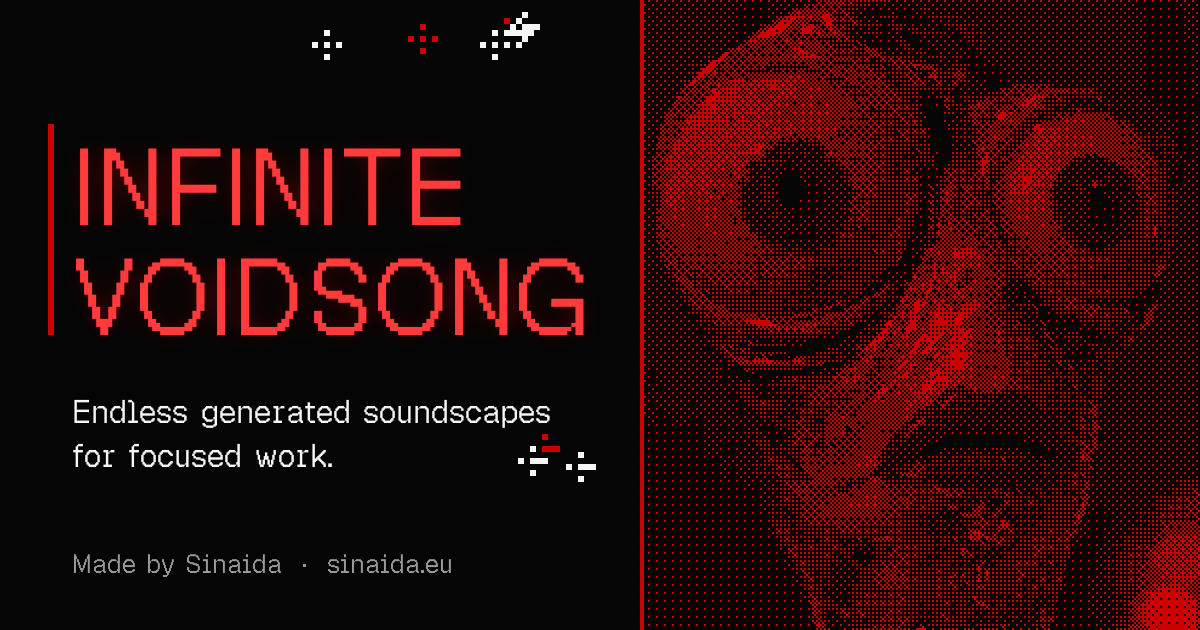
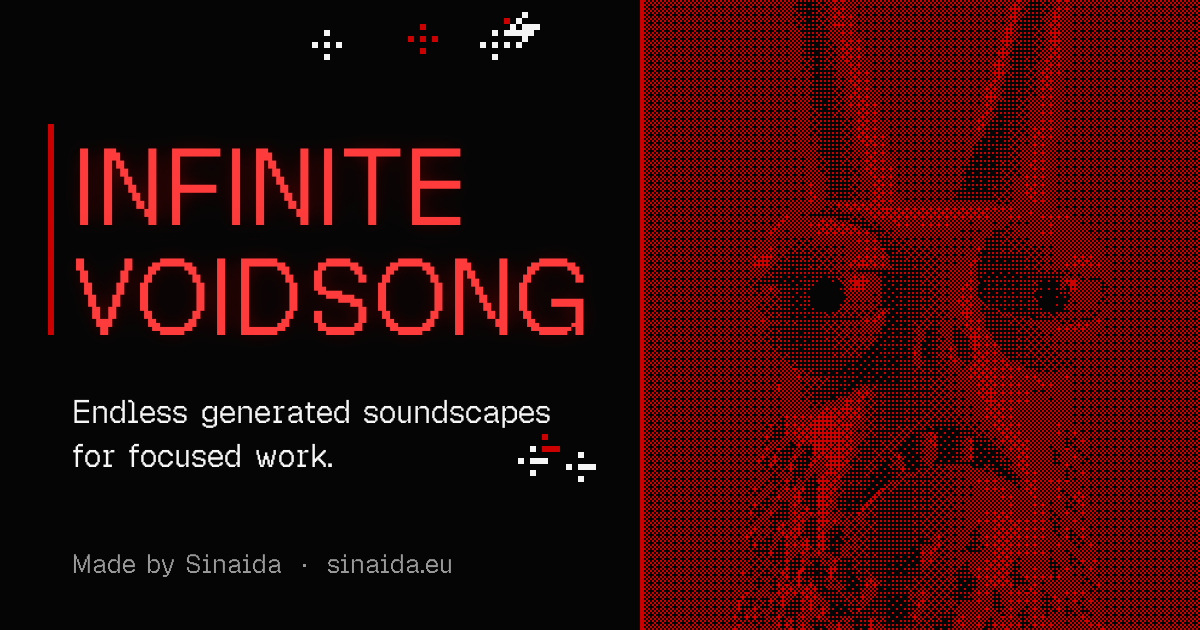
feat: link preview with the horned slopter

Changed region(s): [[0.5242, 0.0, 1.0, 1.0]]

diff --git a/scripts/generate-og.py b/scripts/generate-og.py
@@ -11,7 +11,7 @@ from PIL import Image, ImageDraw, ImageFilter, ImageFont
 
 ROOT = Path(__file__).resolve().parent.parent
 FONT_TTF = ROOT / "scripts" / "fonts" / "GeistPixel-Regular.ttf"   # Geist Pixel, SIL Open Font License
-SOURCE = ROOT / "404_images" / "slopter_6.png"
+SOURCE = ROOT / "404_images" / "slopter_44.png"
 OUT = ROOT / "public" / "og.png"
 
 VOID = (5, 5, 5)
@@ -64,7 +64,7 @@ def main() -> None:
     scale = max(tw / src.width, th / src.height)
     resized = src.resize((round(src.width * scale), round(src.height * scale)), Image.Resampling.LANCZOS)
     left = (resized.width - tw) // 2
-    top = int((resized.height - th) * 0.12)
+    top = int((resized.height - th) * 0.55)
     crop = resized.crop((left, top, left + tw, top + th))
     panel = dither(crop).resize((panel_w, panel_h), Image.Resampling.NEAREST)
     canvas.paste(panel.convert("RGBA"), (PANEL_X, 0))
